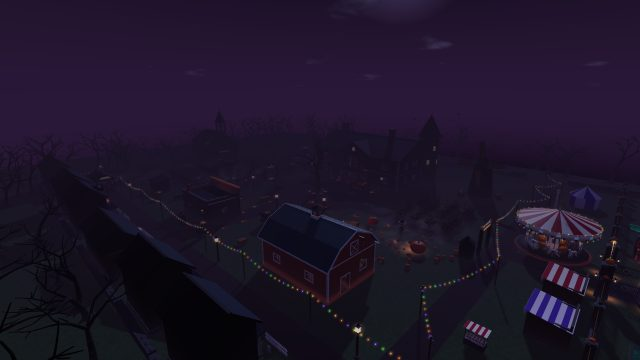
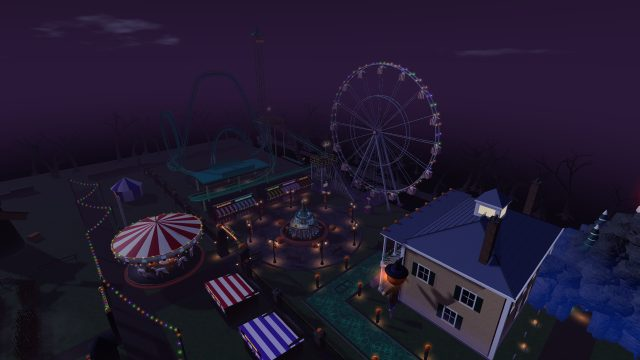
Troll Forces: Hollowgrin phase 6f (park zombie rises, new preview)
Zombies now also claw up in the park: in front of the pet cemetery, out of
the splash pool, in Skull Mountain's cave and under the coaster (spots
checked clear of every collider; sim: they reach a player at the pet
cemetery and in the coaster yard). Bots need no roam points: they walk the
flow field to the nearest enemy, and the park has a spawn at each end.

Map-vote preview re-shot over the Grinmoor Fair (carousel, coaster,
Ferris wheel, fountain, the U Mad Mansion), with a 25 s settle so the
GLBs are in (WAIT=25000).

Tags: hollowgrin/maps ?v=hg6i, loadout sk3-hg6i, game.js?v=to-padbo2-hg6i.

diff --git a/assets/games/troll-ops/game.js b/assets/games/troll-ops/game.js
@@ -12,7 +12,7 @@ import { buildWeaponMesh, stripLights, preloadWeaponModels, setWeaponEnvMap, has
 import { WeaponInspector } from "./inspector.js?v=cg1";
 import { buildGlove, poseGlove, gloveWrist } from "./glove-model.js?v=gl5";
 import { CharacterInspector } from "./char-inspector.js?v=cg1";
-import { Loadout } from "./loadout.js?v=sk3-hg6h";
+import { Loadout } from "./loadout.js?v=sk3-hg6i";
 import { StreakPicker } from "./streak-picker.js?v=gu1";
 import { StreakState, STREAK_DEFS, SCORE, streaksAllowed, streakIconSvg, streakBadgeSvg, streakShortName, PACKAGE_STREAK_POOL } from "./scorestreaks.js?v=gu1";
 import { K9Pack, K9, resolveK9 } from "./k9-unit.js?v=sw1";
@@ -30,7 +30,7 @@ import { StrikeTablet, STRIKE_TARGETS } from "./streak-tablet.js";
 import { KillCam } from "./killcam.js?v=to-fx3";
 import { Achievements } from "./achievements.js?v=gu1";
 import { addXp, syncXp, xpForRun, xpForMatch, XP, XP_SCALE } from "./progression.js?v=gu1";
-import { buildMap, disposeMap, MAPS, MAP_IDS } from "./maps.js?v=hg6h";
+import { buildMap, disposeMap, MAPS, MAP_IDS } from "./maps.js?v=hg6i";
 import { Net, makeRoomCode, MAX_PLAYERS, MAX_PLAYERS_ROYALE, isSyntheticId } from "./net.js?v=to-lk1";
 import { MatchChat, safeUid } from "./chat.js?v=to-social1";
 import { RemotePlayers, TEAMS, STANCE_LOWER, ROLL_TIME, rollRig, poseDrop, DROP_BUS, DROP_FALL, DROP_GLIDE } from "./remote-players.js?v=rp3";

diff --git a/troll-ops.html b/troll-ops.html
@@ -705,7 +705,7 @@
   </script>
   <script src="assets/js/troll-leaderboard.js?v=lb-engine-v1" defer></script>
   <script src="assets/games/troll-ops/leaderboard.js?v=to-lb-p2" defer></script>
-  <script type="module" src="assets/games/troll-ops/game.js?v=to-padbo2-hg6h"></script>
+  <script type="module" src="assets/games/troll-ops/game.js?v=to-padbo2-hg6i"></script>
   <script type="module" src="assets/games/troll-ops/menu-bo2.js?v=to-bo2e"></script>
 
   <script src="https://cdn.jsdelivr.net/npm/@supabase/supabase-js@2.110.3" integrity="sha384-uVefCux0Kf6w34gQVv8+jUPUwvwFUdnrcwI1kOJHs7sfPPXdDDucwcrPrppD6oUe" crossorigin="anonymous"></script>

diff --git a/assets/games/troll-ops/hollowgrin.js b/assets/games/troll-ops/hollowgrin.js
@@ -4598,6 +4598,11 @@ function buildHollowgrin(api) {
     [-50.2, -32], [-50.2, -8], [-50.2, 10], [-50.2, 35],
     [-41, 44.3], [-21.7, 44.3], [-9, 44.3], [9, 44.3], [21.7, 44.3], [35, 44.3],
   ]) ZSPAWNS.push({ x, y: 0, z });
+  // the park (6f): they claw up in front of the pet cemetery, out of the
+  // splash pool, in the cave under Skull Mountain and under the coaster
+  for (const [x, z] of [[65.6, 33.1], [70.6, 33.1], [65.2, 41.1], [75.1, 33.0], [57, -26], [64, -36]]) {
+    ZSPAWNS.push({ x, y: 0, z, rise: true });
+  }
 }
 
 /* ================================================================ the map */

diff --git a/assets/games/troll-ops/loadout.js b/assets/games/troll-ops/loadout.js
@@ -5,7 +5,7 @@ import { ATTACHMENTS, SLOTS, SLOT_LABELS, resolveWeapon, defaultLoadoutFor, stat
 import { iconFor } from "./attachment-icons.js";
 import { SKIN_BY_ID, skinsFor, skinThumbUrl } from "./skins.js?v=sk3";
 import { getRank, isUnlocked, rankUnlocked, rankProgress, rankXpText } from "./progression.js?v=gu1";
-import { MAPS, MAP_IDS, mapSchematic } from "./maps.js?v=hg6h";
+import { MAPS, MAP_IDS, mapSchematic } from "./maps.js?v=hg6i";
 import { MELEE_DEFS, MELEE_IDS, THROWABLE_DEFS, LETHAL_IDS, TACTICAL_IDS } from "./gear.js?v=to-fx3";
 
 const STORE = "trollops:loadout";

diff --git a/assets/games/troll-ops/maps.js b/assets/games/troll-ops/maps.js
@@ -10,7 +10,7 @@ import * as THREE from "three";
 import { mergeGeometries } from "three/addons/utils/BufferGeometryUtils.js";
 import { makeGroundMaterial } from "./shaders.js";
 import { PENTAGRIN } from "./pentagrin.js?v=hg6e";
-import { HOLLOWGRIN } from "./hollowgrin.js?v=hg6h";
+import { HOLLOWGRIN } from "./hollowgrin.js?v=hg6i";
 import { GRINLERIA } from "./grinleria.js?v=hg6e";
 import { TROLLFACE_ISLAND } from "./trollface-island.js?v=hg6e";
 import { SURFACES } from "./surface-textures.js?v=hg6e";
